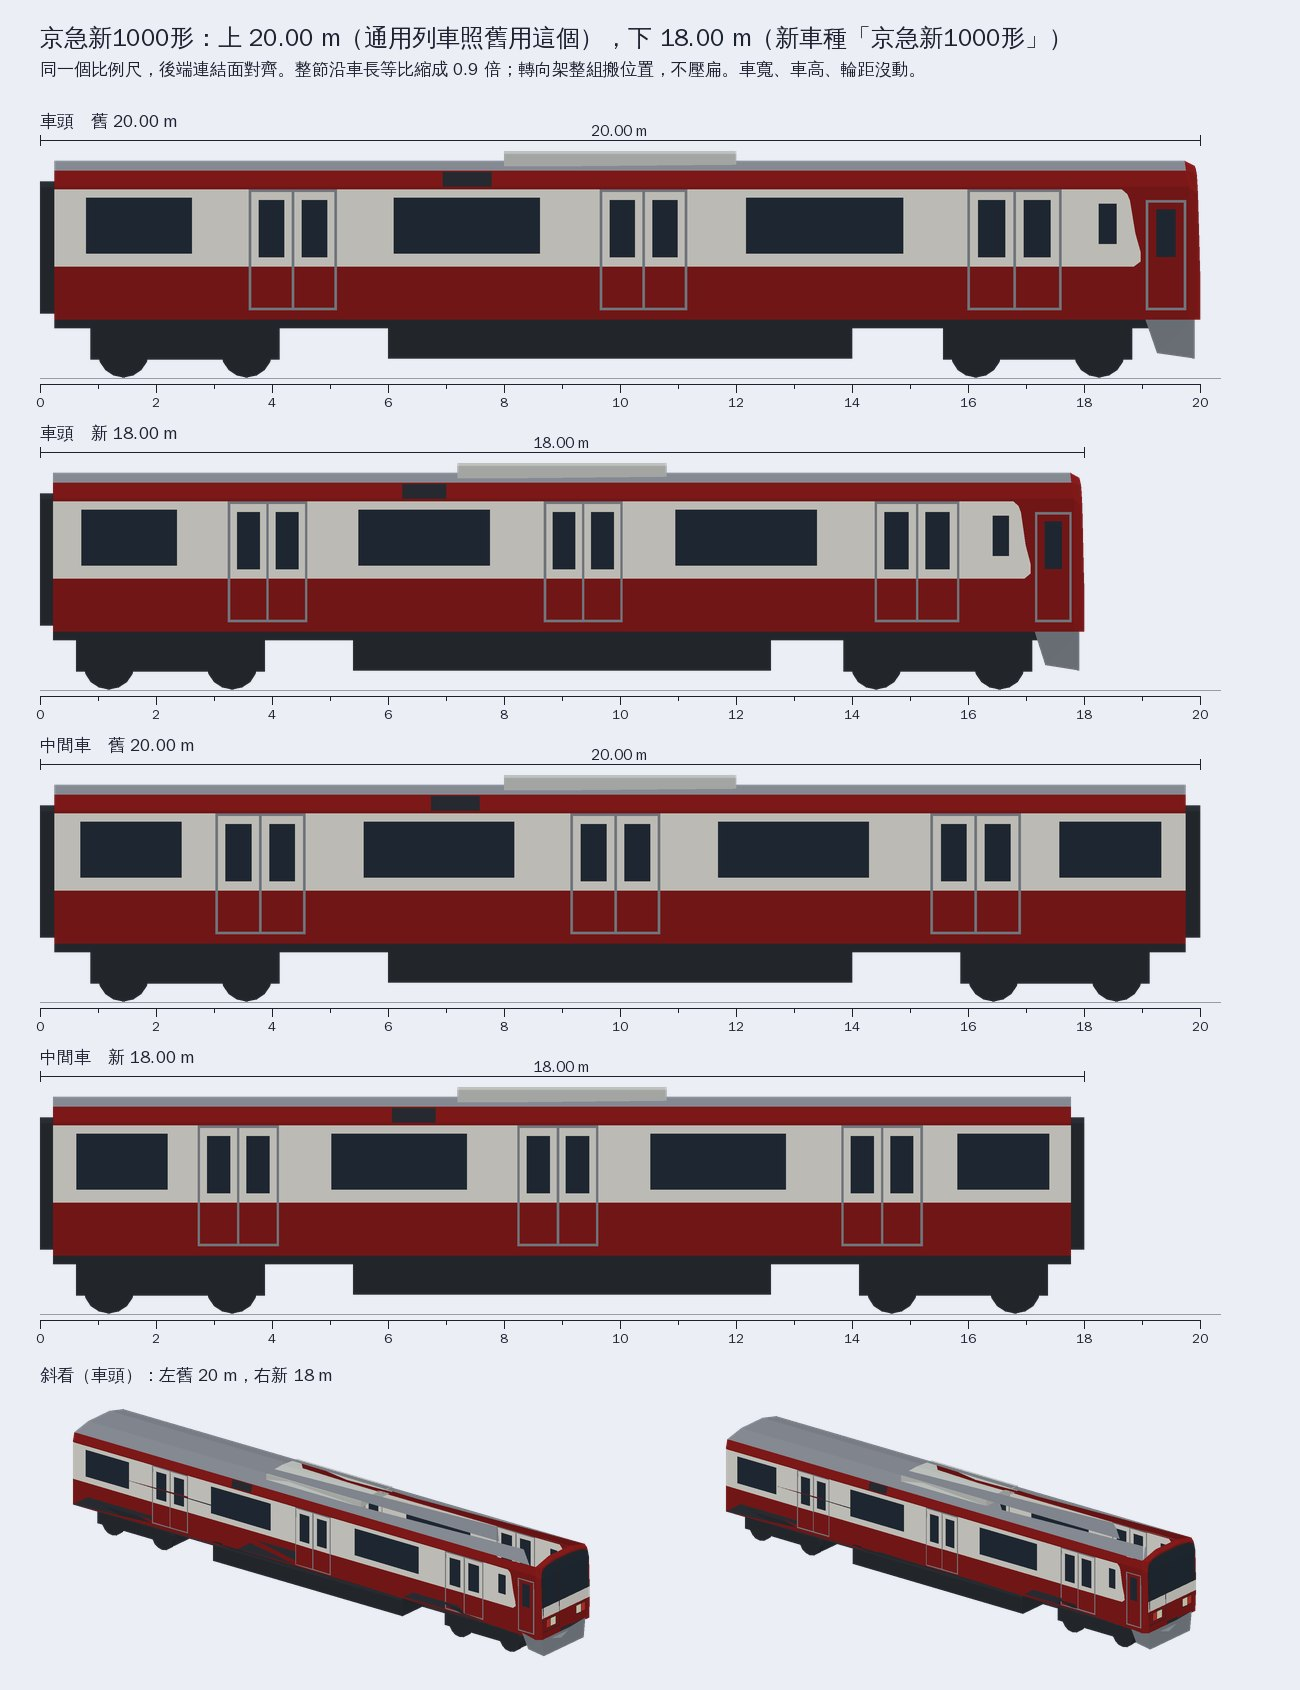
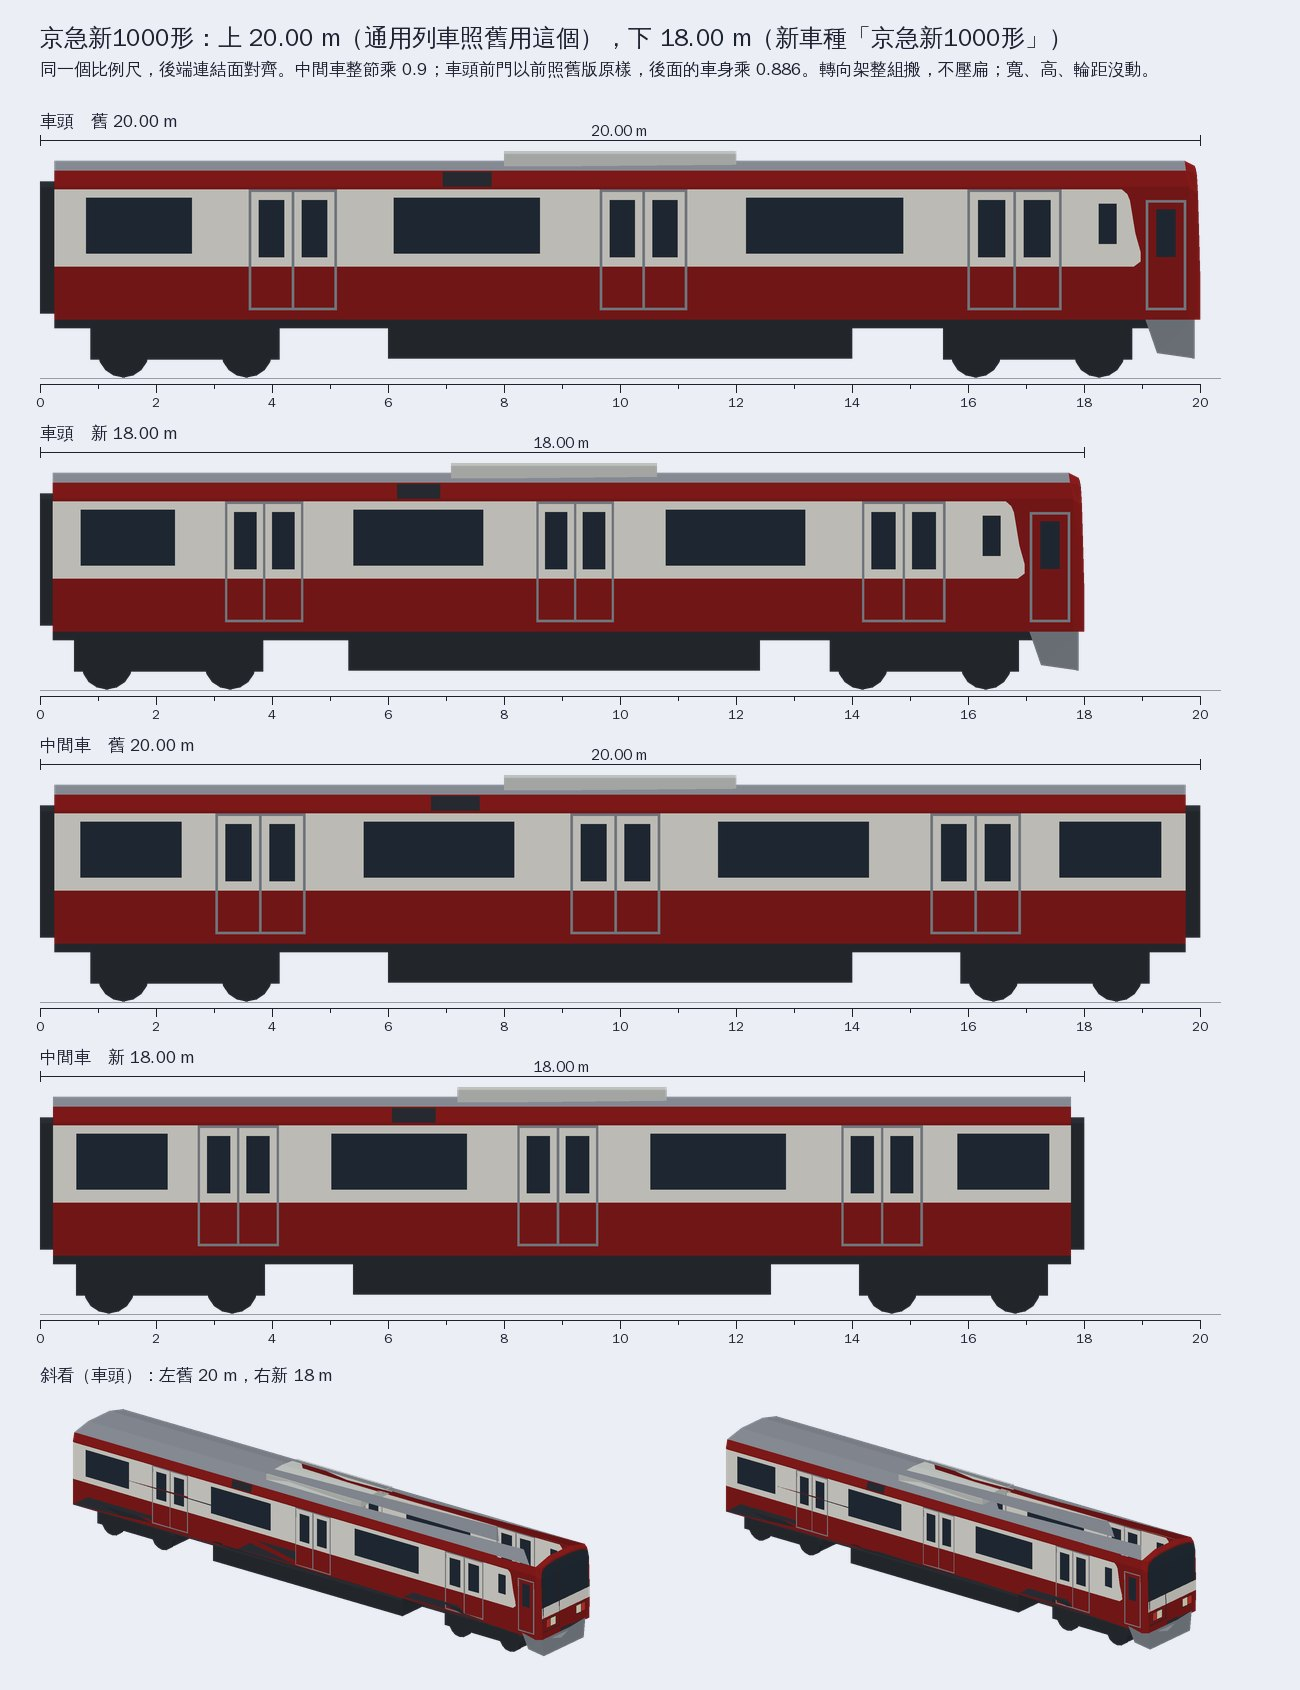
決策 986：京急新1000形車頭照真車比例，車鼻不縮、只縮車身（素材 r5）
照協調者的統一規則填了真車對遊戲的表（鼻長、窗數、窗距、窗寬、門寬）：
整節乘 0.9 把車鼻沿車長壓扁一成、車頭整段比真車短。改成素材庫 -2
revision-5：車頭前門門框前緣以前照舊版不縮，後面的車身乘 0.8864，
仍是 18.00 m；中間車不變。重產車頭網格與鎖檔，測試改成分段對應並加
testTheCabKeepsItsFrontAndShortensItsBody，決策 986 第 4 節換成對照表，
docs/art 換圖並加 real-car-check.jpg。

Claude-Session: https://claude.ai/code/session_01YGNNumLBJvSM9CJ9j59TaU

diff --git a/Sources/GamePresentation/Map3DKeikyuNew1000Mesh.swift b/Sources/GamePresentation/Map3DKeikyuNew1000Mesh.swift
@@ -6,52 +6,52 @@ extension Map3DKeikyuNew1000 {
     static let encoded: [String: String] = [
         // 1314 triangles.
         "keikyu-new1000-cab": """
[95 lines of base64/hex data omitted]
@@ -285,29 +285,29 @@ extension Map3DKeikyuNew1000 {
         """,
         // 634 triangles.
         "keikyu-new1000-cab-far": """
[47 lines of base64/hex data omitted]
         EgAGAAUAABEAEAATAAAUABUAFgAAFwAYABQAABQAGQAXAAAZABoAFwAAGgAZABsAABQAGAAVAAAcABUAGAAAGAAbABwAABwAGwAdAAAbABkAHQAAHQAZAB4A
[1 lines of base64/hex data omitted]

diff --git a/Tests/GamePresentationTests/Map3DKeikyuNew1000At18Tests.swift b/Tests/GamePresentationTests/Map3DKeikyuNew1000At18Tests.swift
@@ -4,8 +4,11 @@ import XCTest
 
 /// Decision 986: the Keikyu New 1000 at its real 18 m
 /// (``Map3DKeikyuNew1000``), the train of the type `KEIKYU1000`: the
-/// general train's 20 m cars (``Map3DRedCommuter``) shortened as a whole,
-/// their wheels where the gauge puts them.
+/// general train's 20 m cars (``Map3DRedCommuter``) shortened, their wheels
+/// where the gauge puts them. The middle car is shortened as a whole; the
+/// cab car keeps its front (from the front door's frame forward: the small
+/// window, the crew door and the nose) as it was and shortens the rest,
+/// which is nearer the real car (decision 986 §4, the real-car table).
 final class Map3DKeikyuNew1000At18Tests: XCTestCase {
     /// Each 18 m car beside the 20 m car it was made from, near and far.
     private func pairs() throws -> [(name: String, short: Map3DModelPack.Model, long: Map3DModelPack.Model)] {
@@ -17,6 +20,16 @@ final class Map3DKeikyuNew1000At18Tests: XCTestCase {
                           try XCTUnwrap(Map3DRedCommuter.middle(far: far))))
         }
         return pairs
+    }
+
+    /// Where a point of the 20 m car is on the 18 m one: the middle car
+    /// nine tenths as far from its middle; the cab car's body from the rear
+    /// coupler face to 7.61 m (the front door frame's front edge) shortened
+    /// to 15.61 m, its front moved back a metre as it is.
+    private func along(_ x: Float, cab: Bool) -> Float {
+        guard cab else { return x * 0.9 }
+        let front: Float = 7.61
+        return x <= front ? -9 + (x + 10) * (8 + front) / (10 + front) : x - 1
     }
 
     /// Where along the car each wheel's foot is (the vertices under
@@ -54,7 +67,7 @@ final class Map3DKeikyuNew1000At18Tests: XCTestCase {
 
     /// The wheels were moved, not squashed: each is as long as the 20 m
     /// car's, a bogie's two axles are as far apart (2.125 m), the bogie's
-    /// middle is nine tenths as far from the car's, and a wheel's tread
+    /// middle is where the shortening puts the 20 m car's, and a wheel's tread
     /// stands 0.630 to 0.805 m from the middle of the track, so an axle's
     /// two wheels are 1.435 m apart, centre to centre.
     func testTheWheelsStayRoundAndOnTheGauge() throws {
@@ -73,12 +86,47 @@ final class Map3DKeikyuNew1000At18Tests: XCTestCase {
                 XCTAssertEqual(base, middle(longWheels[bogie + 1]) - middle(longWheels[bogie]), accuracy: 0.002, name)
                 let centre = (middle(shortWheels[bogie]) + middle(shortWheels[bogie + 1])) / 2
                 let before = (middle(longWheels[bogie]) + middle(longWheels[bogie + 1])) / 2
-                XCTAssertEqual(centre, before * 0.9, accuracy: 0.005, "\(name): the bogie's place")
+                XCTAssertEqual(centre, along(before, cab: name.hasPrefix("cab")), accuracy: 0.005, "\(name): the bogie's place")
             }
             let feet = short.vertices.filter { $0.z < 0.30 }.map { abs($0.y) }
             XCTAssertEqual(feet.min() ?? 0, 0.630, accuracy: 0.002, name)
             XCTAssertEqual(feet.max() ?? 0, 0.805, accuracy: 0.002, name)
             XCTAssertEqual((feet.min() ?? 0) + (feet.max() ?? 0), 1.435, accuracy: 0.003, "\(name): the gauge")
+        }
+    }
+
+    /// The cab's front is the 20 m car's, a metre back and not squashed:
+    /// every point of it ahead of the front door's frame is there, so the
+    /// nose keeps its length to its width. Behind it the doors stand where
+    /// the shortening puts them, nearer the real car's than a car shortened
+    /// as a whole (decision 986 §4: real door centres -5.40, 0.005 and
+    /// 5.41 m, these -5.135, 0.226 and 5.892; the crew door, a metre back,
+    /// at 8.413). A door is its frame's posts, at most 0.8 m apart.
+    func testTheCabKeepsItsFrontAndShortensItsBody() throws {
+        struct Point: Hashable { let x: Int, y: Int, z: Int }
+        func key(_ x: Float, _ y: Float, _ z: Float) -> Point {
+            Point(x: Int((x * 1000).rounded()), y: Int((y * 1000).rounded()), z: Int((z * 1000).rounded()))
+        }
+        for far in [false, true] {
+            let short = try XCTUnwrap(Map3DKeikyuNew1000.cab(far: far))
+            let long = try XCTUnwrap(Map3DRedCommuter.cab(far: far))
+            let points = Set(short.vertices.map { key($0.x, $0.y, $0.z) })
+            let front = long.vertices.filter { $0.x > 7.62 && $0.z > 1.06 }
+            XCTAssertGreaterThan(front.count, 20)
+            for v in front {
+                XCTAssertTrue(points.contains(key(v.x - 1, v.y, v.z)), "far \(far): \(v.x), \(v.y), \(v.z) is not a metre back")
+            }
+        }
+        let cab = try XCTUnwrap(Map3DKeikyuNew1000.cab())
+        let frames = cab.vertices.filter { $0.y > 1.39 && $0.color == Map3DPalette.steel && $0.z > 1.1 && $0.z < 3.3 }.map(\.x).sorted()
+        var doors: [ClosedRange<Float>] = []
+        for x in frames {
+            if let last = doors.last, x - last.upperBound < 0.8 { doors[doors.count - 1] = last.lowerBound...x } else { doors.append(x...x) }
+        }
+        XCTAssertEqual(doors.count, 4, "three doors and the crew door: \(doors)")
+        guard doors.count == 4 else { return }
+        for (door, centre) in zip(doors, [Float(-5.135), 0.226, 5.892, 8.413]) {
+            XCTAssertEqual((door.lowerBound + door.upperBound) / 2, centre, accuracy: 0.01)
         }
     }
 

diff --git a/Sources/GamePresentation/Map3DKeikyuNew1000.swift b/Sources/GamePresentation/Map3DKeikyuNew1000.swift
@@ -6,13 +6,16 @@ import GameCore
 /// general train's of four cars or more (``Map3DRedCommuter``, decision
 /// 956: the owner's old detailed cars, a red body, a white band round the
 /// windows, three doors a side), shortened from their 20.00 m to the real
-/// car's 18.00 m from coupler to coupler: every part scaled along the car
-/// as a whole (the nose is not reshaped), but the two bogies, moved and
-/// not squashed, so a wheel stays round. Across the car nothing moved: it
+/// car's 18.00 m from coupler to coupler: a middle car scaled along the
+/// car as a whole; a cab car keeps its nose, crew door and the small
+/// window behind the cab as they were (so the nose's length to its width
+/// is unchanged) and only its body behind them is shortened, which puts
+/// its doors and windows nearest the real car's. The two bogies are
+/// moved and not squashed, so a wheel stays round. Across the car nothing moved: it
 /// is 2.80 m wide and its wheels stand on the 1,435 mm gauge. The roof is
 /// 3.904 m above the rail, as the 20 m car's.
 /// (`a91453/railway-assets-private-2`,
-/// `game-art-previews/docs/art/keikyu-new1000-2026-11/revision-4`, written
+/// `game-art-previews/docs/art/keikyu-new1000-2026-11/revision-5`, written
 /// here by `tools/train-models/glb_to_swift.py`, ``encoded``.)
 public enum Map3DKeikyuNew1000 {
     /// The key of its set (``Map3DTrainSet/keikyuNew1000(far:)``).

diff --git a/docs/art/keikyu-18m-2026-11-25/README.md b/docs/art/keikyu-18m-2026-11-25/README.md
@@ -2,6 +2,8 @@
 
 `compare-20m-18m.jpg`：車頭與中間車，上舊 20.00 m（沒選車款的通用列車照舊用），下新 18.00 m（車種「京急新1000形」）。同一個比例尺，後端連結面對齊；最下面是車頭斜看。
 
-整節沿車長等比縮成 0.9 倍，轉向架整組搬位置、不壓扁；車寬 2.80 m、車高 3.904 m、輪距 1,435 mm 沒動。
+`real-car-check.jpg`：車頭側面三版（舊版 20 m、整節 × 0.9、採用的車鼻不縮），後兩版上用紅框畫真車的門、兩扇一組的窗與乘務員門的位置（決策 986 第 4 節的表）。
 
-其餘兩張（轉向架與軌距、8 節對 144 m 月台）、18 m 的 GLB 與畫圖的工具在素材庫 `game-art-previews/docs/art/keikyu-new1000-2026-11/revision-4/`（放哪個庫見 `docs/ASSET_REPOSITORIES.md`）。
+中間車整節沿車長乘 0.9；車頭的車鼻、乘務員門、駕駛室後的小窗照舊版不縮，只縮後面的車身（乘 0.886）。轉向架整組搬位置、不壓扁；車寬 2.80 m、車高 3.904 m、輪距 1,435 mm 沒動。
+
+其餘兩張（轉向架與軌距、8 節對 144 m 月台）、18 m 的 GLB 與畫圖的工具在素材庫 `game-art-previews/docs/art/keikyu-new1000-2026-11/revision-5/`（放哪個庫見 `docs/ASSET_REPOSITORIES.md`）。
